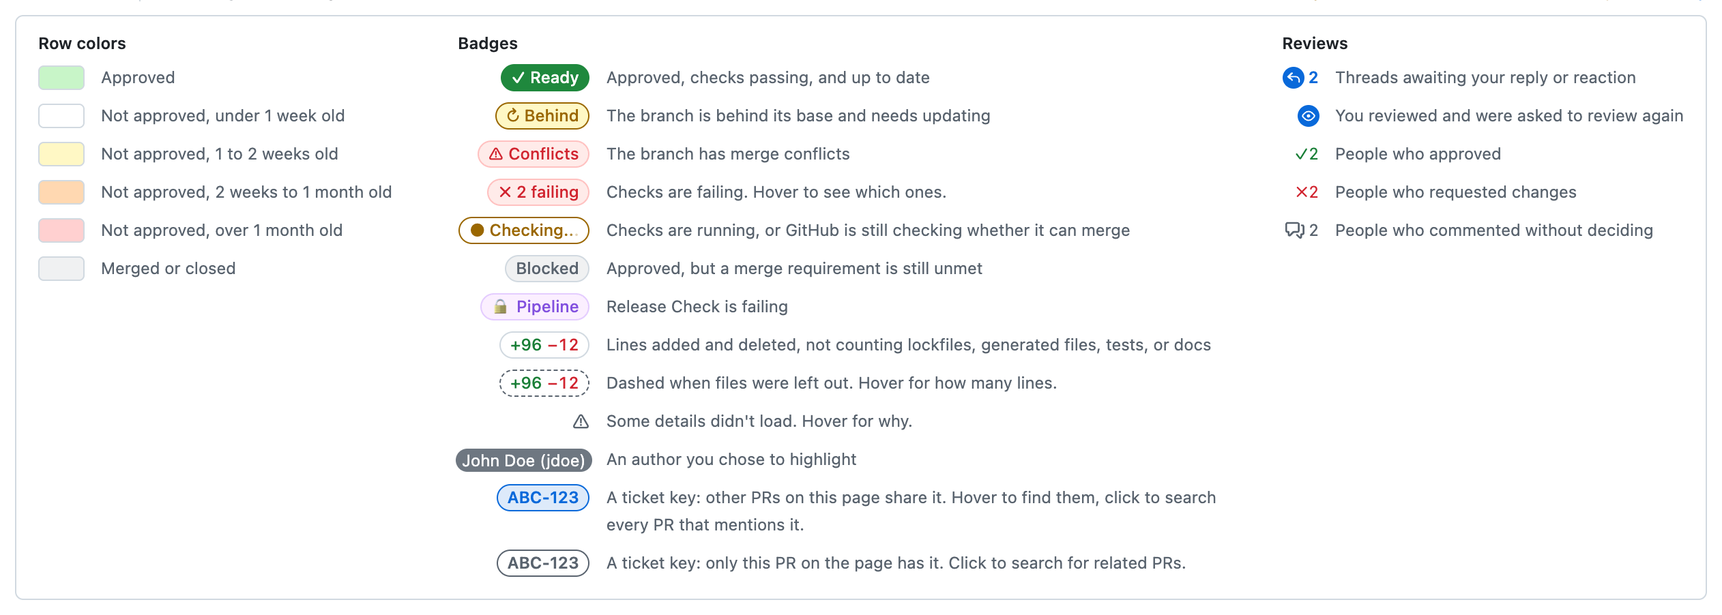
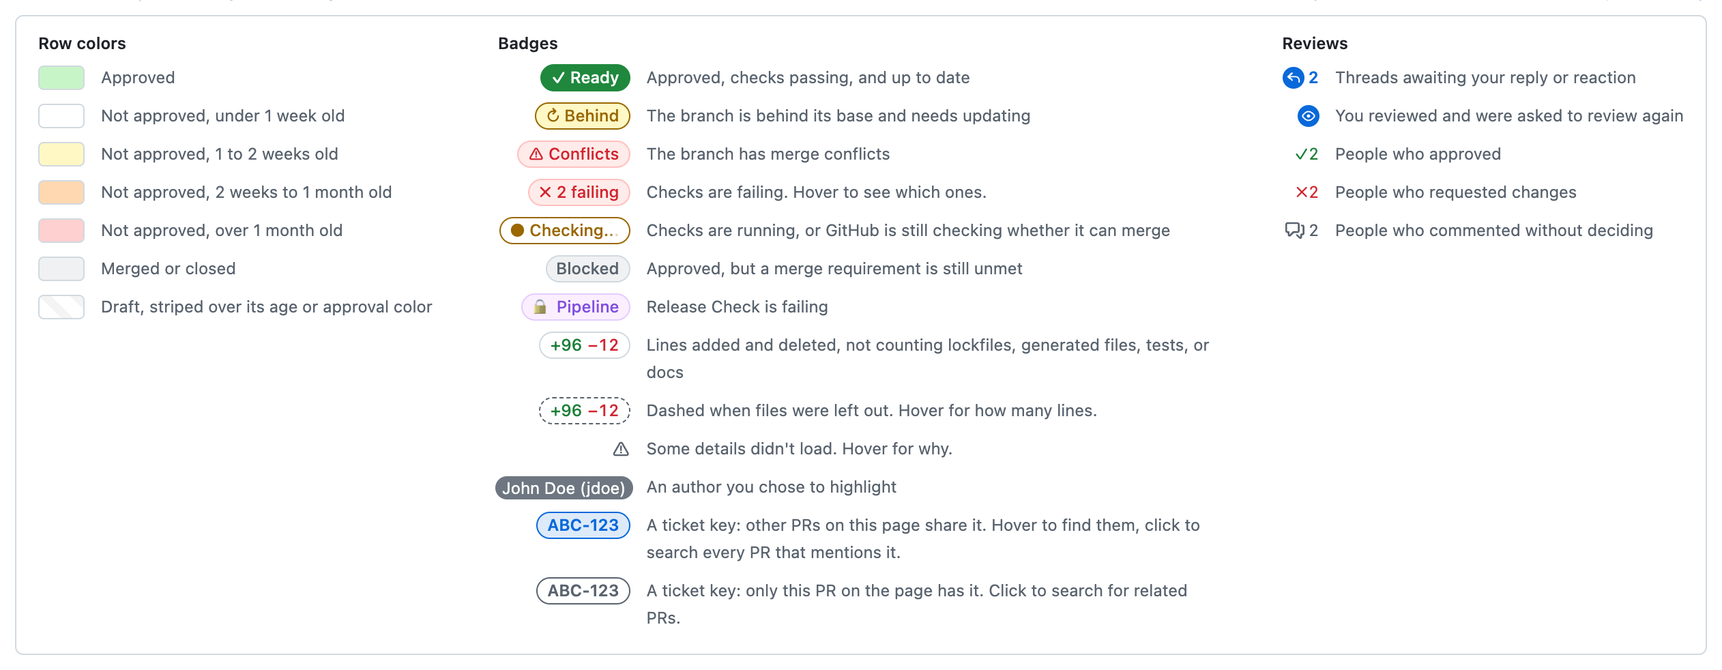
Added striped draft rows, bumped to 1.7.1
- Draft PRs keep their age or approval color and get faint 45° stripes,
  on whenever Row colors is.
- Stripes are offset by each row's place in the list, so they run
  unbroken across neighboring drafts.
- Added a draft swatch to the legend, synced the demo, and regenerated
  the README screenshot and legend.

diff --git a/docs/demo.html b/docs/demo.html
@@ -99,13 +99,14 @@
   .mock-bar[hidden] { display: none; }
   .pr-icon.merged { color: var(--fgColor-done); }
   .pr-icon.closed { color: var(--fgColor-danger); }
+  .pr-icon.draft { color: var(--fgColor-muted); }
   .mock-bar button { padding: 0; border: 0; background: none; font: inherit; color: var(--fgColor-accent); cursor: pointer; }
 
   /* Copied from the userscript */
-  :root { --prb-row-yellow: #fff8c5; --prb-row-orange: #ffd8b1; --prb-row-red: #ffd0d0; --prb-row-green: #c8f5c8; --prb-hl-solid: #6e7781; --prb-tg-0: #0969da; --prb-tg-1: #8250df; --prb-tg-2: #bf3989; --prb-tg-3: #1b7c83; --prb-tg-4: #bc4c00; --prb-tg-5: #6e7781; }
-  [data-color-mode="dark"] { --prb-row-yellow: #2f2a05; --prb-row-orange: #3d1f0d; --prb-row-red: #3c0614; --prb-row-green: #122117; --prb-hl-solid: #6e7681; --prb-tg-0: #4493f8; --prb-tg-1: #ab7df8; --prb-tg-2: #db61a2; --prb-tg-3: #39c5cf; --prb-tg-4: #db6d28; --prb-tg-5: #9198a1; }
+  :root { --prb-row-yellow: #fff8c5; --prb-row-orange: #ffd8b1; --prb-row-red: #ffd0d0; --prb-row-green: #c8f5c8; --prb-hl-solid: #6e7781; --prb-tg-0: #0969da; --prb-tg-1: #8250df; --prb-tg-2: #bf3989; --prb-tg-3: #1b7c83; --prb-tg-4: #bc4c00; --prb-tg-5: #6e7781; --prb-draft-stripe: rgba(31, 35, 40, 0.05); }
+  [data-color-mode="dark"] { --prb-row-yellow: #2f2a05; --prb-row-orange: #3d1f0d; --prb-row-red: #3c0614; --prb-row-green: #122117; --prb-hl-solid: #6e7681; --prb-tg-0: #4493f8; --prb-tg-1: #ab7df8; --prb-tg-2: #db61a2; --prb-tg-3: #39c5cf; --prb-tg-4: #db6d28; --prb-tg-5: #9198a1; --prb-draft-stripe: rgba(240, 246, 252, 0.05); }
   @media (prefers-color-scheme: dark) {
-    [data-color-mode="auto"] { --prb-row-yellow: #2f2a05; --prb-row-orange: #3d1f0d; --prb-row-red: #3c0614; --prb-row-green: #122117; --prb-hl-solid: #6e7681; --prb-tg-0: #4493f8; --prb-tg-1: #ab7df8; --prb-tg-2: #db61a2; --prb-tg-3: #39c5cf; --prb-tg-4: #db6d28; --prb-tg-5: #9198a1; }
+    [data-color-mode="auto"] { --prb-row-yellow: #2f2a05; --prb-row-orange: #3d1f0d; --prb-row-red: #3c0614; --prb-row-green: #122117; --prb-hl-solid: #6e7681; --prb-tg-0: #4493f8; --prb-tg-1: #ab7df8; --prb-tg-2: #db61a2; --prb-tg-3: #39c5cf; --prb-tg-4: #db6d28; --prb-tg-5: #9198a1; --prb-draft-stripe: rgba(240, 246, 252, 0.05); }
   }
   .prb-group { float: right; display: inline-flex; gap: 6px; margin: 2px 16px 0 12px; }
   .prb { display: inline-flex; align-items: center; gap: 4px; font-size: 12px; font-weight: 500; line-height: 18px; padding: 0 7px; border-radius: 2em; border: 1px solid transparent; white-space: nowrap; }
@@ -180,6 +181,8 @@
   .prb-ticket:hover { text-decoration: underline; }
   .prb-ticket.prb-ticket-single { --prb-tg: var(--fgColor-muted, #59636e); background: var(--bgColor-default, #fff); }
   .prb-legend .prb-ticket { margin-right: 0; }
+  /* A 45° tile holds two stripe periods of 6px stripes and 10px gaps, so its side is 16px × √2. */
+  .prb-draft { background-image: linear-gradient(45deg, var(--prb-draft-stripe) 0 18.75%, transparent 18.75% 50%, var(--prb-draft-stripe) 50% 68.75%, transparent 68.75% 100%); background-size: 22.627px 22.627px; background-origin: border-box; }
   .prb-tg-dim > li { transition: opacity 0.12s; }
   .prb-tg-dim > li:not(.prb-tg-hot) { opacity: 0.4; }
   .prb-tg-arrow { position: fixed; left: 50%; z-index: 100; display: inline-flex; align-items: center; padding: 4px 12px; border: 1px solid var(--prb-tg); border-radius: 2em; background: var(--bgColor-default, #fff); color: var(--prb-tg); font: inherit; font-size: 12px; font-weight: 600; box-shadow: 0 4px 12px rgba(37, 41, 46, 0.18); pointer-events: none; animation: prb-tg-bounce 1.2s ease-in-out infinite; }
@@ -311,8 +314,8 @@
     { title: 'feat: Add CSV import for contacts', repo: 'acme/crm#240', author: 'Lee Park (lpark)', reviews: { ok: ['Sam', 'Priya', 'Dana'] }, opened: '5 days ago', review: 'Approved', checks: [7, 8], pills: ['conflicts', 'pipeline'], add: '+563', del: '−91', tests: [347, 6], comments: 6, bg: GREEN },
     { title: 'docs(plat-310): Document the local development setup', repo: 'acme/platform-docs#19', author: 'Sam Ortiz (sortiz)', reviews: { ok: ['Dana', 'Priya'] }, opened: '6 days ago', review: 'Approved', checks: [3, 3], pills: ['blocked'], add: '+0', del: '−0', docs: [142, 0], comments: 2, bg: GREEN },
     { title: 'UI-218 Fix the search input contrast in dark mode', repo: 'acme/web-app#398', author: 'Morgan Ellis (mellis)', reviews: { reRequested: true, ok: ['Dana'], chg: ['Jordan'], cmt: ['Sam', 'Lee'] }, opened: 'last week', review: 'Changes requested', checks: [6, 6], pills: ['behind'], add: '+18', del: '−6', comments: 4, bg: YELLOW },
-    { title: 'chore: Remove expired feature flags', repo: 'acme/web-app#371', author: 'Riley Chen (rchen)', reviews: { reRequested: true, cmt: ['Jordan', 'Dana'] }, opened: '3 weeks ago', review: 'Review required', checks: [6, 6], pills: [], add: '+12', del: '−240', comments: 1, bg: ORANGE },
-    { title: 'feat: Experimental GraphQL gateway', repo: 'acme/gateway#12', author: 'Riley Chen (rchen)', reviews: { cmt: ['Sam', 'Priya', 'Dana'] }, opened: 'on Aug 25', review: 'Review required', checks: [4, 4], pills: ['conflicts'], add: '+3.4k', del: '−120', comments: 21, bg: RED },
+    { draft: true, title: 'chore: Remove expired feature flags', repo: 'acme/web-app#371', author: 'Riley Chen (rchen)', reviews: { reRequested: true, cmt: ['Jordan', 'Dana'] }, opened: '3 weeks ago', review: 'Review required', checks: [6, 6], pills: [], add: '+12', del: '−240', comments: 1, bg: ORANGE },
+    { draft: true, title: 'feat: Experimental GraphQL gateway', repo: 'acme/gateway#12', author: 'Riley Chen (rchen)', reviews: { cmt: ['Sam', 'Priya', 'Dana'] }, opened: 'on Aug 25', review: 'Review required', checks: [4, 4], pills: ['conflicts'], add: '+3.4k', del: '−120', comments: 21, bg: RED },
   ];
 
   // The viewer is Jordan. waiting counts unresolved threads where someone else spoke last and Jordan hasn't reacted.
@@ -322,7 +325,7 @@
     { title: 'fix: Close idle database connections', repo: 'acme/orders#541', author: ME, reviews: { ok: ['Priya', 'Lee'], waiting: 1 }, opened: '2 days ago', review: 'Approved', checks: [8, 8], pills: ['ready'], add: '+41', del: '−9', comments: 4, bg: GREEN },
     { title: 'chore: Migrate CI to the shared workflow', repo: 'acme/build-tools#61', author: ME, reviews: { ok: ['Morgan'], cmt: ['Sam'] }, opened: '3 days ago', review: 'Approved', checks: [4, 4], pills: ['ready'], add: '+77', del: '−130', comments: 3, bg: GREEN },
     { title: 'refactor(PRICE-77): Extract the pricing rules engine', repo: 'acme/billing-api#318', author: ME, reviews: { cmt: ['Dana'], waiting: 1 }, opened: '3 days ago', review: 'Review required', checks: [9, 9], pills: [], add: '+1.4k', del: '−960', comments: 2, bg: '' },
-    { title: 'API-902 Document the public API rate limits', repo: 'acme/platform-docs#22', author: ME, opened: '4 days ago', review: 'Review required', checks: [2, 2], pills: [], add: '+88', del: '−0', comments: 0, bg: '' },
+    { draft: true, title: 'API-902 Document the public API rate limits', repo: 'acme/platform-docs#22', author: ME, opened: '4 days ago', review: 'Review required', checks: [2, 2], pills: [], add: '+88', del: '−0', comments: 0, bg: '' },
     { title: 'feat: Bulk archive for stale projects', repo: 'acme/admin-console#163', author: ME, reviews: { ok: ['Riley'] }, opened: '5 days ago', review: 'Approved', checks: [7, 7], pills: ['behind'], add: '+205', del: '−31', comments: 1, bg: GREEN },
     { title: 'feat: Verify webhook signatures', repo: 'acme/notifications#94', author: ME, reviews: { chg: ['Dana'], cmt: ['Sam', 'Lee'], waiting: 4, overLimit: 1 }, opened: 'last week', review: 'Changes requested', checks: [6, 6], pills: ['behind'], add: '+512', del: '−64', tests: [268, 0], comments: 17, bg: YELLOW },
   ];
@@ -424,6 +427,7 @@
   let view = 'review';
 
   const prIcon = '<svg width="16" height="16" viewBox="0 0 16 16" fill="currentColor"><path d="M1.5 3.25a2.25 2.25 0 1 1 3 2.122v5.256a2.251 2.251 0 1 1-1.5 0V5.372A2.25 2.25 0 0 1 1.5 3.25Zm5.677-.177L9.573.677A.25.25 0 0 1 10 .854V2.5h1A2.5 2.5 0 0 1 13.5 5v5.628a2.251 2.251 0 1 1-1.5 0V5a1 1 0 0 0-1-1h-1v1.646a.25.25 0 0 1-.427.177L7.177 3.427a.25.25 0 0 1 0-.354ZM3.75 2.5a.75.75 0 1 0 0 1.5.75.75 0 0 0 0-1.5Zm0 9.5a.75.75 0 1 0 0 1.5.75.75 0 0 0 0-1.5Zm8.25.75a.75.75 0 1 0 1.5 0 .75.75 0 0 0-1.5 0Z"/></svg>';
+  const draftIcon = '<svg width="16" height="16" viewBox="0 0 16 16" fill="currentColor"><path d="M3.25 1A2.25 2.25 0 0 1 4 5.372v5.256a2.251 2.251 0 1 1-1.5 0V5.372A2.251 2.251 0 0 1 3.25 1Zm9.5 14a2.25 2.25 0 1 1 0-4.5 2.25 2.25 0 0 1 0 4.5ZM2.5 3.25a.75.75 0 1 0 1.5 0 .75.75 0 0 0-1.5 0ZM3.25 12a.75.75 0 1 0 0 1.5.75.75 0 0 0 0-1.5Zm9.5 0a.75.75 0 1 0 0 1.5.75.75 0 0 0 0-1.5ZM14 7.5a1.25 1.25 0 1 1-2.5 0 1.25 1.25 0 0 1 2.5 0Zm0-4.25a1.25 1.25 0 1 1-2.5 0 1.25 1.25 0 0 1 2.5 0Z"/></svg>';
   const mergedIcon = '<svg width="16" height="16" viewBox="0 0 16 16" fill="currentColor"><path d="M5.45 5.154A4.25 4.25 0 0 0 9.25 7.5h1.378a2.251 2.251 0 1 1 0 1.5H9.25A5.734 5.734 0 0 1 5 7.123v3.505a2.25 2.25 0 1 1-1.5 0V5.372a2.25 2.25 0 1 1 1.95-.218ZM4.25 13.5a.75.75 0 1 0 0-1.5.75.75 0 0 0 0 1.5Zm8.5-4.5a.75.75 0 1 0 0-1.5.75.75 0 0 0 0 1.5ZM5 3.25a.75.75 0 1 0-1.5 0 .75.75 0 0 0 1.5 0Z"/></svg>';
   const commentIcon = '<svg width="16" height="16" viewBox="0 0 16 16" fill="currentColor"><path d="M1 2.75C1 1.784 1.784 1 2.75 1h10.5c.966 0 1.75.784 1.75 1.75v7.5A1.75 1.75 0 0 1 13.25 12H9.06l-2.573 2.573A1.458 1.458 0 0 1 4 13.543V12H2.75A1.75 1.75 0 0 1 1 10.25Zm1.75-.25a.25.25 0 0 0-.25.25v7.5c0 .138.112.25.25.25h2a.75.75 0 0 1 .75.75v2.19l2.72-2.72a.749.749 0 0 1 .53-.22h4.5a.25.25 0 0 0 .25-.25v-7.5a.25.25 0 0 0-.25-.25Z"/></svg>';
 
@@ -550,8 +554,10 @@
     const passing = r.checks[0] === r.checks[1];
     const mark = r.pending ? '' : passing ? '<span class="pass">✓</span>' : '<span class="fail">✗</span>';
     const bg = !settings.rowColors ? 'transparent' : r.state ? DONE : r.bg || 'transparent';
-    return `<li style="background:${bg}"${tk.key ? ` data-prb-ticket="${tk.key}"` : ''}>
-      <div class="pr-icon ${r.state || ''}">${r.state === 'merged' ? mergedIcon : prIcon}</div>
+    const draft = r.draft && !r.state;
+    const icon = r.state === 'merged' ? mergedIcon : draft ? draftIcon : prIcon;
+    return `<li style="background-color:${bg}"${draft && settings.rowColors ? ' class="prb-draft"' : ''}${tk.key ? ` data-prb-ticket="${tk.key}"` : ''}>
+      <div class="pr-icon ${r.state || (draft ? 'draft' : '')}">${icon}</div>
       <div>
         <div class="title-line"><span class="prb-group">${pills}</span>${tk.pill || ''}${r.title}</div>
         <div class="meta">${r.repo} · ${tk.meta || ''}${authorHtml(r.author)} opened ${r.opened} · ${r.review} · ${mark} <span class="ratio">${r.checks[0]}/${r.checks[1]}</span></div>
@@ -637,6 +643,7 @@
         [swatch(ORANGE), 'Not approved, 2 weeks to 1 month old'],
         [swatch(RED), 'Not approved, over 1 month old'],
         [swatch(DONE), 'Merged or closed'],
+        ['<span class="prb-legend-swatch prb-draft"></span>', 'Draft, striped over its age or approval color'],
       ]) +
       section('Badges', [
         [badge('ready'), 'Approved, checks passing, and up to date'],
@@ -664,6 +671,14 @@
   }
 
   const list = document.getElementById('rows');
+  // Each draft row's stripes are shifted by its place in the list, so they run unbroken across neighboring drafts.
+  function alignDraftStripes() {
+    list.querySelectorAll('li.prb-draft').forEach((row) => {
+      row.style.backgroundPosition = `0 ${list.getBoundingClientRect().top - row.getBoundingClientRect().top}px`;
+    });
+  }
+  new ResizeObserver(alignDraftStripes).observe(list);
+  new MutationObserver(alignDraftStripes).observe(list, { childList: true });
   const legend = document.getElementById('legend');
   legend.innerHTML = renderLegend();
 

diff --git a/github-pr-list-status.user.js b/github-pr-list-status.user.js
@@ -2,7 +2,7 @@
 // @name        GitHub PR List Status
 // @namespace   https://github.com/aseniah
 // @description Colors PRs by age and approval, and adds merge state and line count badges to the pull requests list
-// @version     1.7
+// @version     1.7.1
 // @license     MIT
 // @updateURL   https://raw.githubusercontent.com/aseniah/github-pr-list-status/main/github-pr-list-status.user.js
 // @downloadURL https://raw.githubusercontent.com/aseniah/github-pr-list-status/main/github-pr-list-status.user.js
@@ -308,10 +308,10 @@
     "M6.78 1.97a.75.75 0 0 1 0 1.06L3.81 6h6.44A4.75 4.75 0 0 1 15 10.75v2.5a.75.75 0 0 1-1.5 0v-2.5a3.25 3.25 0 0 0-3.25-3.25H3.81l2.97 2.97a.749.749 0 0 1-.326 1.275.749.749 0 0 1-.734-.215L.47 7.28a.75.75 0 0 1 0-1.06l4.25-4.25a.75.75 0 0 1 1.06 0Z";
 
   const BADGE_CSS = `
-    :root { --prb-row-yellow: #fff8c5; --prb-row-orange: #ffd8b1; --prb-row-red: #ffd0d0; --prb-row-green: #c8f5c8; --prb-hl-solid: #6e7781; --prb-tg-0: #0969da; --prb-tg-1: #8250df; --prb-tg-2: #bf3989; --prb-tg-3: #1b7c83; --prb-tg-4: #bc4c00; --prb-tg-5: #6e7781; }
-    [data-color-mode="dark"] { --prb-row-yellow: #2f2a05; --prb-row-orange: #3d1f0d; --prb-row-red: #3c0614; --prb-row-green: #122117; --prb-hl-solid: #6e7681; --prb-tg-0: #4493f8; --prb-tg-1: #ab7df8; --prb-tg-2: #db61a2; --prb-tg-3: #39c5cf; --prb-tg-4: #db6d28; --prb-tg-5: #9198a1; }
+    :root { --prb-row-yellow: #fff8c5; --prb-row-orange: #ffd8b1; --prb-row-red: #ffd0d0; --prb-row-green: #c8f5c8; --prb-hl-solid: #6e7781; --prb-tg-0: #0969da; --prb-tg-1: #8250df; --prb-tg-2: #bf3989; --prb-tg-3: #1b7c83; --prb-tg-4: #bc4c00; --prb-tg-5: #6e7781; --prb-draft-stripe: rgba(31, 35, 40, 0.05); }
+    [data-color-mode="dark"] { --prb-row-yellow: #2f2a05; --prb-row-orange: #3d1f0d; --prb-row-red: #3c0614; --prb-row-green: #122117; --prb-hl-solid: #6e7681; --prb-tg-0: #4493f8; --prb-tg-1: #ab7df8; --prb-tg-2: #db61a2; --prb-tg-3: #39c5cf; --prb-tg-4: #db6d28; --prb-tg-5: #9198a1; --prb-draft-stripe: rgba(240, 246, 252, 0.05); }
     @media (prefers-color-scheme: dark) {
-      [data-color-mode="auto"] { --prb-row-yellow: #2f2a05; --prb-row-orange: #3d1f0d; --prb-row-red: #3c0614; --prb-row-green: #122117; --prb-hl-solid: #6e7681; --prb-tg-0: #4493f8; --prb-tg-1: #ab7df8; --prb-tg-2: #db61a2; --prb-tg-3: #39c5cf; --prb-tg-4: #db6d28; --prb-tg-5: #9198a1; }
+      [data-color-mode="auto"] { --prb-row-yellow: #2f2a05; --prb-row-orange: #3d1f0d; --prb-row-red: #3c0614; --prb-row-green: #122117; --prb-hl-solid: #6e7681; --prb-tg-0: #4493f8; --prb-tg-1: #ab7df8; --prb-tg-2: #db61a2; --prb-tg-3: #39c5cf; --prb-tg-4: #db6d28; --prb-tg-5: #9198a1; --prb-draft-stripe: rgba(240, 246, 252, 0.05); }
     }
     .prb-group { float: right; display: inline-flex; gap: 6px; margin: 2px 16px 0 12px; }
     .prb { display: inline-flex; align-items: center; gap: 4px; font-size: 12px; font-weight: 500; line-height: 18px; padding: 0 7px; border-radius: 2em; border: 1px solid transparent; white-space: nowrap; }
@@ -386,6 +386,8 @@
     .prb-ticket:hover { text-decoration: underline; }
     .prb-ticket.prb-ticket-single { --prb-tg: var(--fgColor-muted, #59636e); background: var(--bgColor-default, #fff); }
     .prb-legend .prb-ticket { margin-right: 0; }
+    /* A 45° tile holds two stripe periods of 6px stripes and 10px gaps, so its side is 16px × √2. */
+    .prb-draft { background-image: linear-gradient(45deg, var(--prb-draft-stripe) 0 18.75%, transparent 18.75% 50%, var(--prb-draft-stripe) 50% 68.75%, transparent 68.75% 100%); background-size: 22.627px 22.627px; background-origin: border-box; }
     .prb-tg-dim > li { transition: opacity 0.12s; }
     .prb-tg-dim > li:not(.prb-tg-hot) { opacity: 0.4; }
     .prb-tg-arrow { position: fixed; left: 50%; z-index: 100; display: inline-flex; align-items: center; padding: 4px 12px; border: 1px solid var(--prb-tg); border-radius: 2em; background: var(--bgColor-default, #fff); color: var(--prb-tg); font: inherit; font-size: 12px; font-weight: 600; box-shadow: 0 4px 12px rgba(37, 41, 46, 0.18); pointer-events: none; animation: prb-tg-bounce 1.2s ease-in-out infinite; }
@@ -447,9 +449,18 @@
     );
   }
 
+  function isDraft(row) {
+    return !!row
+      .querySelector("svg")
+      ?.classList.contains("octicon-git-pull-request-draft");
+  }
+
   function applyHighlight(row, timeEl) {
     const datetime = timeEl.getAttribute("datetime");
     if (!datetime) return;
+    const draft = isOn("rowColors") && isDraft(row);
+    if (row.classList.contains("prb-draft") !== draft)
+      row.classList.toggle("prb-draft", draft);
     if (!isOn("rowColors")) {
       row.style.backgroundColor = "";
       return;
@@ -1096,6 +1107,8 @@
       el.style.background = color;
       return el;
     };
+    const draftSwatch = () =>
+      element("span", { className: "prb-legend-swatch prb-draft" });
     const reviewCount = (className, icon) => {
       const counts = document.createElement("span");
       counts.className = "prb-review-counts";
@@ -1127,6 +1140,7 @@
         `Not approved, ${ageRangeLabel(CONFIG.ageColors[i - 1]?.days, t.days)} old`,
       ]),
       [swatch(CONFIG.doneColor), "Merged or closed"],
+      [draftSwatch(), "Draft, striped over its age or approval color"],
     ];
     const ticketSample = (className) =>
       element("span", { className, textContent: "ABC-123" });
@@ -3545,10 +3559,34 @@
       addBadges(row);
     });
     applyTicketKeys(rows);
+    watchDraftStripes(rows[0]?.parentElement);
     addFooter();
     // Runs on every change GitHub makes, so the author list rebuilds only when the page's authors change.
     if (renderedAuthors !== authorSignature(rows)) renderPanel();
     updateCelebration();
+  }
+
+  // Each draft row's stripes are shifted by its place in the list, so they run unbroken across
+  // neighboring drafts. A row above growing, such as when its badges wrap the title, resizes the list.
+  let stripeList = null;
+  const stripeObserver = new ResizeObserver(alignDraftStripes);
+  function watchDraftStripes(list) {
+    if (list !== stripeList) {
+      if (stripeList) stripeObserver.unobserve(stripeList);
+      stripeList = list;
+      if (list) stripeObserver.observe(list);
+    }
+    alignDraftStripes();
+  }
+  function alignDraftStripes() {
+    document.querySelectorAll("li.prb-draft").forEach((row) => {
+      const y =
+        row.parentElement.getBoundingClientRect().top -
+        row.getBoundingClientRect().top;
+      if (row.prbStripeY === y) return;
+      row.prbStripeY = y;
+      row.style.backgroundPosition = `0 ${y}px`;
+    });
   }
 
   let highlightQueued = false;

diff --git a/AGENTS.md b/AGENTS.md
@@ -7,7 +7,7 @@ A single-file userscript, `github-pr-list-status.user.js`, that adds merge state
 The script runs on GitHub internals that are undocumented and change without notice, so any GitHub release can break it. Treat every name below as a snapshot: before changing behavior that touches one, probe the live page or response and confirm it still holds. `scripts/probe.js` checks the ones a page and its first open PR can show, including everything the script reads to find rows, titles, state, and authors. Run it on a logged-in PR list page, in the console or by injecting it, at the start of any session that revisits the code. Most checks need at least one open PR on the page, while an empty list checks only what the celebration reads. It reports SKIP for anything the page has no example of, and makes at most 7 requests. Keep it in step with this list. Every failure path degrades to a row with fewer badges, never to a broken page, and a failed request marks the row ⚠ with its reason.
 
 - **Endpoints**, all under `/{owner}/{repo}/pull/{n}/page_data/`: `diffstat`, `file_tree`, `merge_box?merge_method=MERGE&bypass_requirements=false`, `status_checks`, `participants`, `threads`. They answer 406 without `X-Requested-With: XMLHttpRequest`. `file_tree` omits count fields that are zero. `merge_box` reports `mergeStateStatus: UNKNOWN` while GitHub recomputes mergeability, typically right after the base branch moves, and indefinitely for merged PRs, so the script reads `pullRequest.state` and skips merge state for anything not `OPEN`. `merge_box` also lists `pendingReviewRequests`, and a reviewer leaves that list when they submit a review. `threads` returns every review thread with `isResolved` and at most 20 comments each (`reviewCommentsLimitExceeded` flags longer threads), and each comment carries `viewerDidAuthor` and `reactionGroups[].reaction.viewerHasReacted`.
-- **Page structure**: rows are found through `[data-testid="timestamp-container"]`, titles through `a[data-testid="listitem-title-link"]` inside an inline heading, an `h3` on every list as of October 2026 after earlier releases used an `h4` on repo and search lists, so the script accepts any heading level (ticket key pills go just before that heading, outside the link, so they get no PR hovercard and their own clicks), PR state through the row's first `svg` (`octicon-git-merge` and `octicon-git-pull-request-closed` mark merged and closed), approval through the text of `[data-testid="review-decision-icon"]` ("Approved" or "Review required"), which GitHub inserts as new nodes a few seconds after the rows (about 5 seconds on a large org's list), the author through the `aria-label` of `[data-testid="author-filter-link"]` (PRs opened with Copilot show Copilot there and the person in `[data-testid="attributed-author-filter-link"]` before "with"), comments through `svg.octicon-comment`, which GitHub leaves out when the count (conversation comments, review bodies, and thread comments) is zero, and row regions through the CSS grid areas `primary`, `main-content`, and `metadata`. An empty list shows `[data-component="Blankslate"]` inside the list's `ul`, and the selected Open/Closed tab is an `a[aria-current="true"]` whose text ends in its count, such as `Open0 (0)`, and whose `href` carries the submitted query in `q` (GitHub rewrites `is:open` to `state:open` there). The search input is `#pulls-dashboard-surface-filter-input` on `/pulls/*` and `#repo-pulls-dashboard-filter-input` on repo lists, and can hold unsubmitted text, which is why the celebration reads the tab instead. Theme comes from `data-color-mode` on `<html>`, and the signed-in user from `<meta name="user-login">`. The author element is currently an underlined, inline-block `button` showing "Full Name (login)", and highlighted authors get the `prb-hl` chip classes on it directly, so GitHub's own styles for it compete with the chip CSS.
+- **Page structure**: rows are found through `[data-testid="timestamp-container"]`, titles through `a[data-testid="listitem-title-link"]` inside an inline heading, an `h3` on every list as of October 2026 after earlier releases used an `h4` on repo and search lists, so the script accepts any heading level (ticket key pills go just before that heading, outside the link, so they get no PR hovercard and their own clicks), PR state through the row's first `svg` (`octicon-git-merge` and `octicon-git-pull-request-closed` mark merged and closed, and `octicon-git-pull-request-draft` marks an open draft, while a closed draft shows the closed icon), approval through the text of `[data-testid="review-decision-icon"]` ("Approved" or "Review required"), which GitHub inserts as new nodes a few seconds after the rows (about 5 seconds on a large org's list), the author through the `aria-label` of `[data-testid="author-filter-link"]` (PRs opened with Copilot show Copilot there and the person in `[data-testid="attributed-author-filter-link"]` before "with"), comments through `svg.octicon-comment`, which GitHub leaves out when the count (conversation comments, review bodies, and thread comments) is zero, and row regions through the CSS grid areas `primary`, `main-content`, and `metadata`. An empty list shows `[data-component="Blankslate"]` inside the list's `ul`, and the selected Open/Closed tab is an `a[aria-current="true"]` whose text ends in its count, such as `Open0 (0)`, and whose `href` carries the submitted query in `q` (GitHub rewrites `is:open` to `state:open` there). The search input is `#pulls-dashboard-surface-filter-input` on `/pulls/*` and `#repo-pulls-dashboard-filter-input` on repo lists, and can hold unsubmitted text, which is why the celebration reads the tab instead. Theme comes from `data-color-mode` on `<html>`, and the signed-in user from `<meta name="user-login">`. The author element is currently an underlined, inline-block `button` showing "Full Name (login)", and highlighted authors get the `prb-hl` chip classes on it directly, so GitHub's own styles for it compete with the chip CSS.
 - **Edges GitHub already uses**: unread rows get a 3px blue `::before` on the row's left edge from an `UnreadBorder-module__unreadBorder__*` class on the `li`, which is why highlighting avoids row edges.
 - **Navigation**: GitHub switches pages without a full reload, which is why `@match` covers all of `github.com/*` and the script gates itself with `isPrListPage()`. Opening a PR from the list is a full page load, though, and Back restores the frozen list from the browser's back-forward cache (confirmed in Chrome), so the script refreshes the opened PR on `pageshow`. `github.com/pulls?q=` redirects to `/pulls/search?q=`, which `isPrListPage()` also matches, so the related ticket search gets badges too.
 

diff --git a/README.md b/README.md
@@ -15,7 +15,7 @@ Works on GitHub's global pull request list at `github.com/pulls` (Authored by me
 - **Who has weighed in.** Under GitHub's comment count, `✓2` counts approvals, `✗1` counts change requests, and a discussion icon counts people who commented without deciding, such as someone asking a question. Hover for names. Pending reviewers who haven't interacted, the PR author, and bots aren't counted.
 - **Re-review requests.** A blue eye at the start of the review counts marks PRs you already reviewed or commented on where the author has asked for your review again, so you know to come back and look at their changes.
 - **Threads waiting on you.** On PRs you opened, a blue reply icon with a count marks unresolved review threads where someone else had the last word and you haven't replied or reacted. Resolve the thread, reply, or react to its latest comment with any emoji to clear it. Hover for details.
-- **Row colors by age and approval.** Approved PRs are green. Unapproved PRs turn yellow after a week, orange after two weeks, and red after a month. Merged and closed PRs are gray, so they read as done when a search turns them up.
+- **Row colors by age and approval.** Approved PRs are green. Unapproved PRs turn yellow after a week, orange after two weeks, and red after a month. Merged and closed PRs are gray, so they read as done when a search turns them up. Drafts keep their color and get faint diagonal stripes that run unbroken across neighboring drafts.
 - **Related tickets.** Jira-style ticket keys in titles, such as `PAY-2210`, `pay_2210`, or `Feature/pay 2210`, get a pill in front of the title. A key shared by more than one PR on the page gets a colored pill, and hovering it dims every other row. If a related PR is partly or fully out of view, a bouncing arrow at the top or bottom of the window says how many. A key only one PR on the page has gets a gray pill. Clicking any pill opens a new tab searching every PR in those organizations whose title or description mentions the key, including merged, closed, and draft PRs and ones you weren't asked to review. It needs no requests.
 - **Highlighted authors.** Pick teammates in the settings panel and their names stand out in a gray chip on every list, so you can spot their PRs first. Prefer something louder? Switch the chip to an animated 🌈 rainbow.
 - **Live while checks run.** PRs showing **● Checking…** refresh themselves once a minute until their checks finish or GitHub settles their merge state.

diff --git a/RELEASE_NOTES.md b/RELEASE_NOTES.md
@@ -1,5 +1,11 @@
 # Release Notes
 
+## 1.7.1
+
+### Features
+
+- **Striped drafts.** Draft PRs keep their age or approval color and get faint diagonal stripes, so they stand out from PRs ready for review. Turning off **Row colors** turns them off too.
+
 ## 1.7
 
 ### Features
